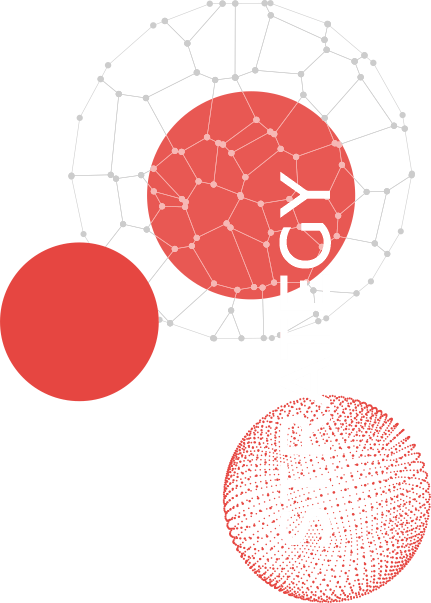
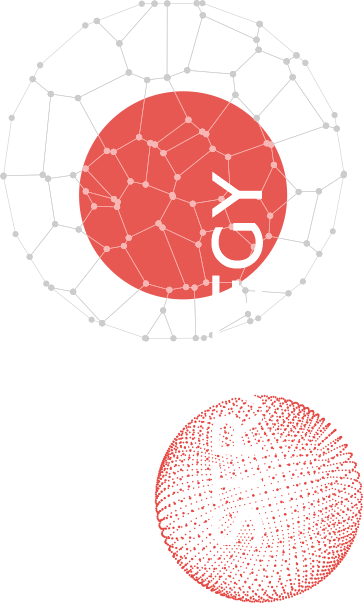
add first animation

diff --git a/frontend/pug/sass/layout/_first.scss b/frontend/pug/sass/layout/_first.scss
@@ -1,6 +1,7 @@
 @import "../vars";
 
 .first {
+  position: relative;
   background-color: $p-text-color;
   min-height: 740px;
   padding-top: 130px - 15;
@@ -13,15 +14,6 @@
     display: flex;
     position: relative;
     justify-content: center;
-    &:before,
-    &:after {
-      display: block;
-      position: absolute;
-      content: '';
-    }
-    &:before {
-
-    }
   }
   &__label {
     width: 246px;
@@ -40,12 +32,170 @@
 
 @media (min-width: 768px) {
   .first {
+    overflow: hidden;
+    &__buble-box {
+      position: absolute;
+      z-index: 12;
+      top: 90px;
+      right: 50%;
+      transform: translateX(-360px);
+    }
+    &__buble {
+      position: absolute;
+      top: 0;
+      left: 0;
+      width: 24px;
+      height: 24px;
+      background-image: url(../svg/buble.svg);
+      background-repeat: no-repeat;
+      background-size: 100%;
+      &._i2 {
+        left: 60px;
+      }
+      &._i3 {
+        left: 120px;
+      }
+    }
+    &__bg1 {
+      position: absolute;
+      top: 420px;
+      left: 50%;
+      width: 72px;
+      height: 73px;
+      background-image: url(../img/first2.png);
+      background-repeat: no-repeat;
+      background-size: contain;
+      transform: translateX(120px);
+      transform-origin: 10px 60px;
+      animation: 30s linear 0s infinite first-bg1;
+    }
+    &__bg2 {
+      position: absolute;
+      top: 60px;
+      left: 50%;
+      width: 100px;
+      height: 101px;
+      background-image: url(../img/first2.png);
+      background-repeat: no-repeat;
+      background-size: contain;
+      transform: translateX(350px);
+      transform-origin: 50px 30px;
+      animation: 40s linear 0s infinite first-bg2;
+    }
+    &__bg3 {
+      position: absolute;
+      top: 490px;
+      right: 50%;
+      width: 80px;
+      height: 80px;
+      background-image: url(../img/first3.png);
+      background-repeat: no-repeat;
+      background-size: contain;
+      transform: translateX(-140px);
+      animation: 10s linear 0s infinite first-bg3;
+    }
+    &__bg4 {
+      position: absolute;
+      top: 490px;
+      left: 50%;
+      width: 155px;
+      height: 141px;
+      background-image: url(../img/first4.png);
+      background-repeat: no-repeat;
+      background-size: contain;
+      transform: translateX(250px);
+      &:before {
+        display: block;
+        position: absolute;
+        content: '';
+        top: 50%;
+        left: 50%;
+        width: 57px;
+        height: 57px;
+        background-color: #fff;
+        border-radius: 50%;
+        transform-origin: 25px 5px;
+        transform: translate(-25px, -5px);
+        animation: 10s linear 0s infinite first-bg4;
+      }
+    }
     &__label-box {
+      position: relative;
       display: flex;
       justify-content: flex-end;
+      &:before {
+        display: block;
+        position: absolute;
+        content: '';
+        top: 15px;
+      }
+      &:before {
+        z-index: 11;
+        right: 246px + 15 - 50px;
+        width: 40px;
+        height: 40px;
+        background-color: #000;
+      }
+    }
+    &__j {
+      display: block;
+      position: absolute;
+      z-index: 12;
+      right: 246px + 15 - 48px;
+      width: 38px;
+      height: 38px;
+      border-radius: 50%;
+      background-color:$p-active-color;
     }
     &__text {
       align-items: flex-start;
+    }
+  }
+
+  [data-aos="buble"] {
+    transition-property: transform, opacity;
+    transform-origin: -100px 150px;
+    transform: translateY(-120px) rotate(360deg);
+    &.aos-animate {
+      transform: translateY(0) rotate(0);
+    }
+  }
+
+  @keyframes first-bg1 {
+    0% {
+      transform: translateX(120px) rotate(0);
+    }
+    100% {
+      transform: translateX(120px) rotate(-360deg);
+    }
+  }
+
+  @keyframes first-bg2 {
+    0% {
+      transform: translateX(350px) rotate(0);
+    }
+    100% {
+      transform: translateX(350px) rotate(360deg);
+    }
+  }
+
+  @keyframes first-bg3 {
+    0% {
+      opacity: 1;
+      transform: translateX(-140px);
+    }
+    50% {
+      opacity: 0.3;
+      transform: translate(-120px, -20px);
+    }
+  }
+
+  @keyframes first-bg4 {
+    0% {
+      transform: translate(-25px, -5px) rotate(0);
+    }
+    100% {
+      transform: translate(-25px, -5px) rotate(360deg);
     }
   }
 }

diff --git a/frontend/pug/sass/layout/_brand.scss b/frontend/pug/sass/layout/_brand.scss
@@ -50,13 +50,26 @@
 
 @media (min-width: 768px) {
   .brand {
+    &__buble {
+      position: absolute;
+      z-index: 3;
+      top: 330px;
+      left: 50%;
+      right: 0;
+      height: 160px;
+      background-image: url(../img/transition4.png);
+      background-repeat: no-repeat;
+      background-size: contain;
+      background-position: top left 459px;
+      animation: 10s linear 0s infinite brand-bg1;
+    }
     &:before {
       top: 88px;
       left: 50%;
       right: 0;
       height: 603px;
       background-image: url(../img/brand.png);
-      background-position: top left 459px;
+      background-position: top left 459px + 68;
     }
     &:after {
       left: 0;
@@ -65,6 +78,14 @@
       height: 1057px;
       background-image: url(../img/transition6.png);
       background-position: bottom right 309px;
+    }
+  }
+  @keyframes brand-bg1 {
+    0% {
+      transform: translate(0, 0);
+    }
+    50% {
+      transform: translate(-20px, -30px);
     }
   }
 }

diff --git a/frontend/pug/sass/layout/_clients.scss b/frontend/pug/sass/layout/_clients.scss
@@ -18,16 +18,38 @@
 
 @media (min-width: 768px) {
   .clients {
-    &:before {
-      left: 0;
+    &__buble {
+      position: absolute;
+      z-index: 2;
       right: 50%;
       bottom: -134px;
+      width: 318px;
+      height: 314px;
+      background-image: url(../img/clients.png);
+      background-repeat: no-repeat;
+      background-size: contain;
+      transform: translateX(-594px);
+      animation: 40s linear 0s infinite clients-bg1;
+    }
+    &:after {
+      left: 0;
+      right: 50%;
+      bottom: 0;
       height: 465px;
       background-image: url(../img/transition2.png);
       background-position: bottom right 265px;
     }
     &__title {
       font-size: 2.125rem;
+    }
+  }
+
+  @keyframes clients-bg1 {
+    0% {
+      transform: translateX(-594px) rotate(0);
+    }
+    100% {
+      transform: translateX(-594px) rotate(360deg);
     }
   }
 }
